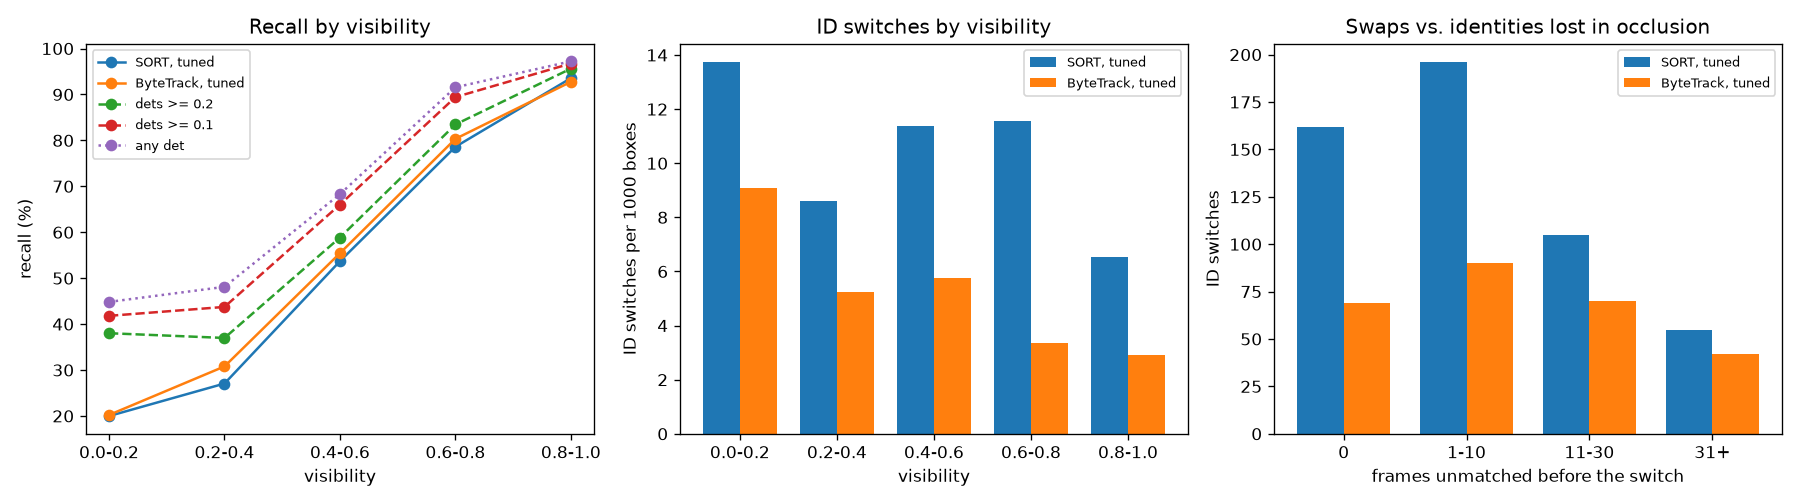
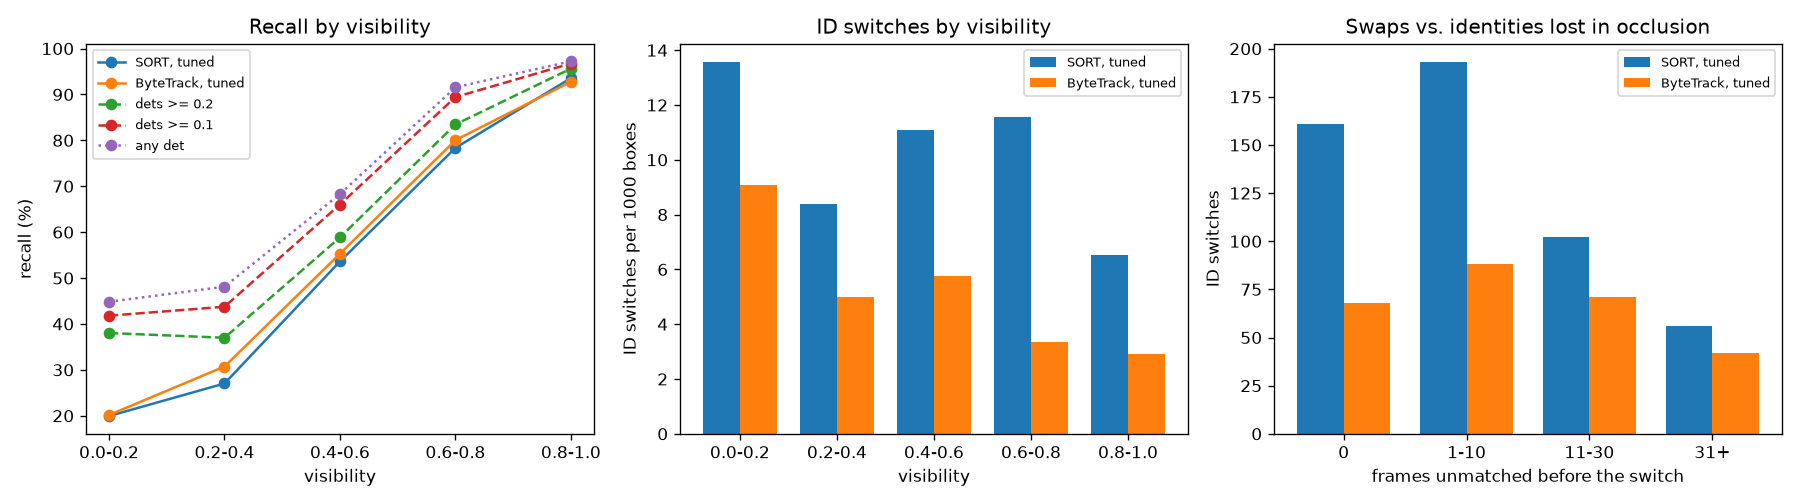
Select MOT17 distractors by class, not confidence

diff --git a/src/mot_track/mot_format.py b/src/mot_track/mot_format.py
@@ -58,13 +58,13 @@ def load_mot_txt(path: Path) -> np.ndarray:
 def split_gt(gt: np.ndarray) -> tuple[np.ndarray, np.ndarray]:
     """Split MOT17 ground truth into (evaluated pedestrians, distractor regions).
 
-    Rows with conf == 0 are ignored by the benchmark. Tracker boxes that match a distractor
-    (person on vehicle, static person, reflection) are discarded instead of counted as false
-    positives, so the distractors are returned separately.
+    Pedestrian rows with conf == 0 are ignored by the benchmark. Tracker boxes that match a
+    distractor (person on vehicle, static person, reflection) are discarded instead of counted
+    as false positives, so the distractors are returned separately. MOT17 marks every
+    distractor row with conf == 0 too, so they must not be filtered on conf.
     """
-    valid = gt[:, 6] > 0
-    pedestrians = gt[valid & (gt[:, 7] == CLASS_PEDESTRIAN)]
-    distractors = gt[valid & np.isin(gt[:, 7], CLASS_DISTRACTORS)]
+    pedestrians = gt[(gt[:, 6] > 0) & (gt[:, 7] == CLASS_PEDESTRIAN)]
+    distractors = gt[np.isin(gt[:, 7], CLASS_DISTRACTORS)]
     return pedestrians, distractors
 
 

diff --git a/tests/conftest.py b/tests/conftest.py
@@ -26,7 +26,7 @@ def mot_root(tmp_path):
         gt.append(f"{f},1,{10 + 5 * f},20,20,40,1,1,1.0")
         gt.append(f"{f},2,{150 - 5 * f},30,20,40,1,1,0.3")
         det.append(f"{f},-1,{10 + 5 * f},20,20,40,0.9,-1,-1,-1")
-    gt.append("1,3,5,5,10,10,1,7,1.0")  # static person: distractor
+    gt.append("1,3,5,5,10,10,0,7,1.0")  # static person: distractor (conf 0, as in MOT17)
     gt.append("1,4,50,50,10,10,0,1,1.0")  # conf 0: ignored by the benchmark
     (seq_dir / "gt" / "gt.txt").write_text("\n".join(gt) + "\n")
     (seq_dir / "det" / "det.txt").write_text("\n".join(det) + "\n")

diff --git a/reports/error_analysis.md b/reports/error_analysis.md
@@ -4,17 +4,17 @@
 
 | tracker | recall | ID switches |
 |---|---|---|
-| SORT, tuned | 60.5 % | 518 |
-| ByteTrack, tuned | 61.2 % | 271 |
+| SORT, tuned | 60.4 % | 512 |
+| ByteTrack, tuned | 61.1 % | 269 |
 
 ## By visibility (annotated fraction of the person that is not occluded)
 
 | bin | boxes | recall SORT, tuned | recall ByteTrack, tuned | recall dets >= 0.2 | recall dets >= 0.1 | recall any det | IDSW/1k SORT, tuned | IDSW/1k ByteTrack, tuned |
 |---|---|---|---|---|---|---|---|---|
-| 0.0-0.2 | 11576 | 20.0 | 20.2 | 38.0 | 41.8 | 44.8 | 13.7 | 9.1 |
-| 0.2-0.4 | 8584 | 27.1 | 30.8 | 37.0 | 43.7 | 48.1 | 8.6 | 5.2 |
-| 0.4-0.6 | 6951 | 53.7 | 55.4 | 58.9 | 66.0 | 68.3 | 11.4 | 5.8 |
-| 0.6-0.8 | 5970 | 78.6 | 80.3 | 83.5 | 89.4 | 91.6 | 11.6 | 3.4 |
+| 0.0-0.2 | 11576 | 19.9 | 20.2 | 38.0 | 41.8 | 44.8 | 13.6 | 9.1 |
+| 0.2-0.4 | 8584 | 27.0 | 30.7 | 37.0 | 43.7 | 48.1 | 8.4 | 5.0 |
+| 0.4-0.6 | 6951 | 53.6 | 55.3 | 58.9 | 66.0 | 68.3 | 11.1 | 5.8 |
+| 0.6-0.8 | 5970 | 78.4 | 80.1 | 83.5 | 89.4 | 91.6 | 11.6 | 3.4 |
 | 0.8-1.0 | 20961 | 93.5 | 92.8 | 95.6 | 96.7 | 97.2 | 6.5 | 2.9 |
 
 ## By box height
@@ -22,18 +22,18 @@
 | bin | boxes | recall SORT, tuned | recall ByteTrack, tuned | recall dets >= 0.2 | recall dets >= 0.1 | recall any det | IDSW/1k SORT, tuned | IDSW/1k ByteTrack, tuned |
 |---|---|---|---|---|---|---|---|---|
 | 0-50 px | 1636 | 30.7 | 31.2 | 39.7 | 44.3 | 47.4 | 22.6 | 9.2 |
-| 50-100 px | 7613 | 47.4 | 47.3 | 57.8 | 62.1 | 65.9 | 18.0 | 9.3 |
-| 100-200 px | 27204 | 55.4 | 56.7 | 63.8 | 69.5 | 71.9 | 7.0 | 3.3 |
+| 50-100 px | 7613 | 47.2 | 47.0 | 57.8 | 62.1 | 65.9 | 17.6 | 9.1 |
+| 100-200 px | 27204 | 55.4 | 56.6 | 63.8 | 69.5 | 71.9 | 6.9 | 3.3 |
 | >= 200 px | 17589 | 76.7 | 77.0 | 81.3 | 82.1 | 82.7 | 8.7 | 5.3 |
 
 ## By overlap with another person (max IoU with any other box in the frame)
 
 | bin | boxes | recall SORT, tuned | recall ByteTrack, tuned | recall dets >= 0.2 | recall dets >= 0.1 | recall any det | IDSW/1k SORT, tuned | IDSW/1k ByteTrack, tuned |
 |---|---|---|---|---|---|---|---|---|
-| none | 12976 | 66.1 | 65.9 | 67.6 | 70.8 | 72.2 | 4.2 | 1.2 |
+| none | 12976 | 66.1 | 65.9 | 67.6 | 70.8 | 72.2 | 4.1 | 1.1 |
 | 0-0.1 | 10007 | 66.4 | 66.7 | 68.7 | 72.0 | 73.8 | 8.7 | 4.5 |
-| 0.1-0.3 | 14206 | 65.3 | 66.0 | 67.3 | 70.6 | 72.8 | 12.4 | 6.6 |
-| > 0.3 | 16853 | 48.5 | 50.3 | 68.2 | 73.4 | 76.1 | 11.9 | 6.9 |
+| 0.1-0.3 | 14206 | 65.2 | 65.8 | 67.3 | 70.6 | 72.8 | 12.2 | 6.6 |
+| > 0.3 | 16853 | 48.4 | 50.2 | 68.2 | 73.4 | 76.1 | 11.7 | 6.9 |
 
 ## ID switches by frames unmatched before the switch
 
@@ -41,15 +41,15 @@ Gap 0 means the person was matched in the previous frame and the ID jumped to an
 
 | tracker | gap 0 | gap 1-10 | gap 11-30 | gap 31+ |
 |---|---|---|---|---|
-| SORT, tuned | 162 | 196 | 105 | 55 |
-| ByteTrack, tuned | 69 | 90 | 70 | 42 |
+| SORT, tuned | 161 | 193 | 102 | 56 |
+| ByteTrack, tuned | 68 | 88 | 71 | 42 |
 
 ## Per sequence
 
 | sequence | camera | boxes | mean overlap | share vis < 0.4 | IDSW SORT, tuned | IDSW ByteTrack, tuned |
 |---|---|---|---|---|---|---|
-| MOT17-02 | static | 9913 | 0.318 | 60 % | 111 | 59 |
-| MOT17-04 | static | 24226 | 0.198 | 35 % | 72 | 33 |
+| MOT17-02 | static | 9913 | 0.318 | 60 % | 106 | 58 |
+| MOT17-04 | static | 24226 | 0.198 | 35 % | 71 | 32 |
 | MOT17-05 | moving | 3363 | 0.178 | 37 % | 96 | 56 |
 | MOT17-09 | static | 2892 | 0.351 | 39 % | 31 | 23 |
 | MOT17-10 | moving | 5946 | 0.155 | 21 % | 113 | 58 |

diff --git a/README.md b/README.md
@@ -56,13 +56,13 @@ Tuned ByteTrack beats tuned SORT on all seven sequences (by 0.8 to 4.5 HOTA) and
 
 | Box group | Boxes | SORT recall | ByteTrack recall | Covered by a detection ≥ 0.2 |
 |---|---|---|---|---|
-| Visibility < 0.2 | 11,576 | 20.0 % | 20.2 % | 38.0 % |
+| Visibility < 0.2 | 11,576 | 19.9 % | 20.2 % | 38.0 % |
 | Visibility ≥ 0.8 | 20,961 | 93.5 % | 92.8 % | 95.6 % |
-| Overlap with another person > 0.3 IoU | 16,853 | 48.5 % | 50.3 % | 68.2 % |
+| Overlap with another person > 0.3 IoU | 16,853 | 48.4 % | 50.2 % | 68.2 % |
 
 - Heavily occluded people are the main source of misses. Even the detector only covers 38 % of them, and the trackers recover about half of that.
 - In crowds the trackers lose recall the detector still has: 18 to 20 points between "a detection exists" and "the tracker reported it". Boxes in a crowd compete for the same track during matching.
-- ByteTrack has fewer ID switches in every visibility bin. Direct swaps between neighbours drop from 162 to 69. Identities lost after more than 30 unmatched frames barely change (55 vs 42): a motion-only tracker has nothing to recognise a person by once the track buffer runs out.
+- ByteTrack has fewer ID switches in every visibility bin. Direct swaps between neighbours drop from 161 to 68. Identities lost after more than 30 unmatched frames barely change (56 vs 42): a motion-only tracker has nothing to recognise a person by once the track buffer runs out.
 
 Danger-zone alerts on the three static-camera sequences (a fixed zone in the lower middle of the image, one alert per person who stays at least 1 s): of 27 real visits, SORT raised 22 correct alerts and 5 duplicates, ByteTrack 21 correct and 3 duplicates. With so few visits that difference is within noise; the [full table](reports/zone_alerts.md) also lists false and missed alerts.
 
@@ -120,7 +120,7 @@ assets/demo.gif
 | One Kalman filter and matcher for both trackers | Isolates the effect of ByteTrack's two-round association. |
 | COCO-pretrained detector, no fine-tuning | Shows what tracking adds on top of an off-the-shelf detector; also reported with the public MOT17 detections for comparison. |
 | HOTA as the tuning target | MOTA mostly rewards detection and IDF1 mostly association; HOTA balances both. |
-| Own CLEAR matcher for the error analysis | TrackEval only reports totals. Re-matching per box gives 518 / 271 ID switches against TrackEval's 512 / 269, close enough to trust the breakdown. |
+| Own CLEAR matcher for the error analysis | TrackEval only reports totals. Re-matching per box reproduces TrackEval's totals (512 / 269 ID switches, 60.4 % / 61.1 % recall), so the breakdown adds up to the reported numbers. |
 
 ## Limitations and future work
 
